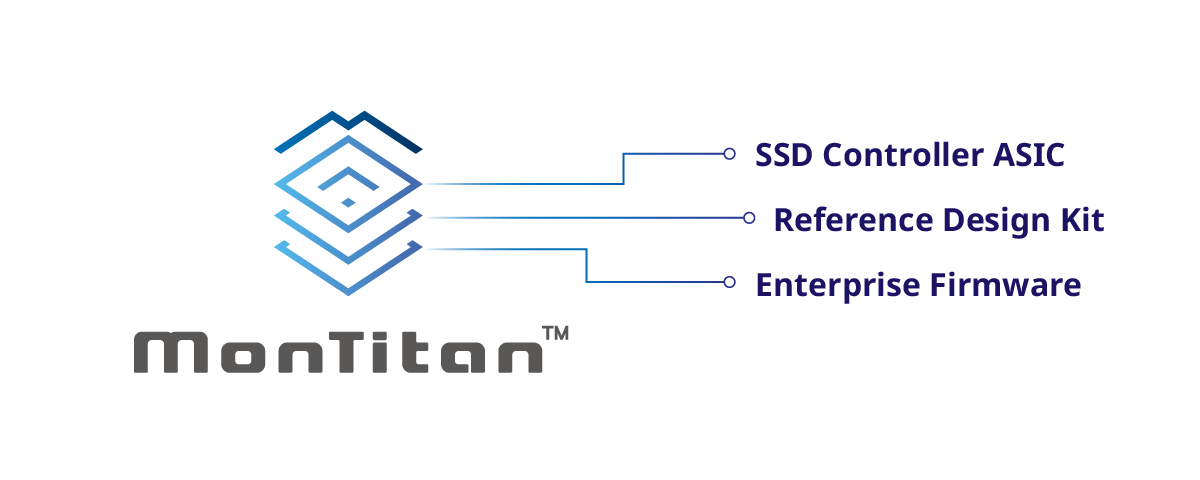
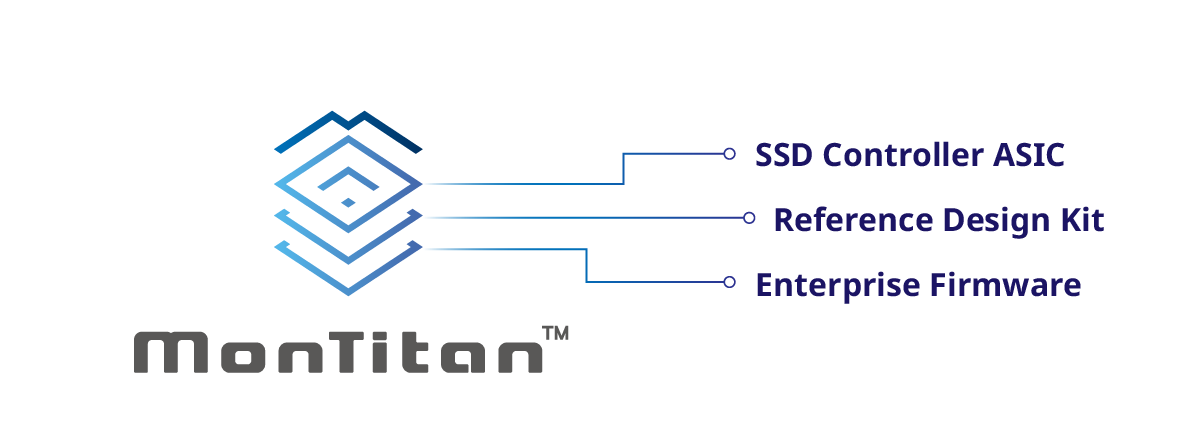
SSD-Enterprise:修改內容及圖片間距.

Changed region(s): [[0.0925, 0.2353, 0.925, 0.8529], [0.5242, 0.2941, 0.8942, 0.3824]]

diff --git a/_Enterprise.html b/_Enterprise.html
@@ -540,8 +540,8 @@
                 Silicon Motion's controllers provide end to end protection with world-class security, supporting AES-256
                 encryption and secure boot, while offering full compliance with the Trusted Computing Group's (TCG) Opal
                 specification.</p>
-              <p>Designed for next-generation data center and enterprise storage, Silicon Motion’s enterprise
-                controllers meet the highest standard s of performance, reliability, and security. With customizable
+              <p>Designed for next-generation data center and enterprise storage, Silicon Motion's enterprise
+                controllers meet the highest standard's of performance, reliability, and security. With customizable
                 turnkey firmware, these SSDs solutions are flexible enough to enable customers to develop
                 application-optimized, differentiated products.</p>
             </div>
@@ -559,20 +559,20 @@
             </div>
 
             <div class="mb-10">
-              <h4>SM8366 High Performance, 16 Channel; PCIe Gen5 x4 NVMe SSD Controller</h4>
-              <p>The SM8366 is MonTitan™ platform’s high performance, dual ported Enterprise and Data Center PCIe Gen5 x4 NVMe controller targets the most demaning AFA, Caching, HCI, CRM, ERM and traditional DAS and RAID applications.   Containing 16 channels and supporting up to 2400MT/s, the SM8366 provides industry leading blazingly fast Sequential (>14GB/s) and Random (>3.0M IOPS) SSD performance.  It contains a scalable Single / Dual Channel 40bit DDR4-3200 / DDR5-4800 DRAM interface and is provided in a 21mm x21mm FCBGA package enabling a single chip and FW stack to be used across all new EDSFF form factors.</p><br>
+              <h4>SM8366 - High Performance 16 Channel PCIe Gen5 x4 NVMe SSD Controller</h4>
+              <p>The SM8366 is MonTitan™ platform's high performance, dual ported Enterprise and Data Center PCIe Gen5 x4 NVMe controller targets the most demaning AFA, Caching, HCI, CRM, ERM and traditional DAS and RAID applications.   Containing 16 channels and supporting up to 2400MT/s, the SM8366 provides industry leading blazingly fast Sequential (>14GB/s) and Random (>3.0M IOPS) SSD performance.  It contains a scalable Single / Dual Channel 40bit DDR4-3200 / DDR5-4800 DRAM interface and is provided in a 21mm x21mm FCBGA package enabling a single chip and FW stack to be used across all new EDSFF form factors.</p><br>
               <figure>
                 <img src="images/products/diagram-SSD-Enterprise-3.png" alt="">
               </figure>
             </div>
 
             <div class="mb-10">
-              <h4>SM8266 High Performance, 16 Channel; PCIe Gen4 x4 NVMe SSD Controller</h4>
+              <h4>SM8266 - High Performance 16 Channel PCIe Gen4 x4 NVMe SSD Controller</h4>
               <p>The SM8266 is a high performance PCIe NVMe Gen4 x4 SSD 16 Channel controller targeting data center applications including durable data storage, JBOF and Cloud applications.   Differentiation is provided in Enterprise SSD solutions focused on Performance, Application Acceleration, Reliability and SKU Flexibility. With a complete development platform including a turnkey stack and reference design kit, the SM8266 accelerates development time-to-market for Data Center and Enterprise storage SSDs.   The SM8266 maximizes the bandwidth of the PCIe Gen4 x4 Host interface with > 6.5GB/s sequential read and 900K sustained Random Read IOPs.  In addition, the SM8266 provides physical and logical isolation with purpose-built hardware and firmware providing consistent, low latency QOS domains.</p>
             </div>
 
             <div class="mb-10">
-              <h4>SM2271; Providing High Capacity, High Performance SATA III</h4>
+              <h4>SM2271 - Providing High Capacity, High Performance SATA III SSD Controller</h4>
               <p>The SM2271 is a high-performance, 8-channel enterprise SATA controller enabling up to 16TB SSDs with the latest 3D TLC and QLC Flash technology. It fully maximizes the SATA interface supporting 540 MB/s Sequential Reads and 520 MB/s Sequential Writes. Accelerating time to market for lower cost SSDs, the solution includes both ASIC and turnkey firmware.</p>
               <p>The SM2271 offers an ideal replacement for lower-performance HDDs while providing more predictable latency than client SSDs. Enterprise SSDs based on a Silicon Motion SM2271 controller combine enterprise-level endurance, security, and performance for read-intensive and mixed workloads, while enabling users to retain existing datacenter infrastructure for the lowest possible total cost of ownership.</p>
               <figure>
@@ -589,7 +589,7 @@
             </div>
 
             <div class="mb-10 text-center">
-              <h4>MonTitan PCIe Gen5 SSD Solution Platform</h4>
+              <h4>MonTitan™ PCIe Gen5 SSD Solution Platform</h4>
               <iframe align="center"
                 allow="accelerometer; autoplay; clipboard-write; encrypted-media; gyroscope; picture-in-picture"
                 allowfullscreen="" frameborder="0" height="385" src="https://www.youtube.com/embed/jeog6CihPMM"
@@ -659,8 +659,6 @@
           <div class="editor">
 
             <h3>Technologies</h3>
-
-            <h5>Key Technologies</h5>
             <figure>
               <a href="#pro-3"><img src="images/products/diagram-SSD-Enterprise-2.png" alt=""></a>
             </figure>
@@ -775,6 +773,43 @@
                 </tr>
               </thead>
               <tbody>
+                <tr>
+                  <td data-th="Download">
+                    <button class="idownload" href="#popup_3Xc" data-effect="mfp-zoom-in">
+                      <img src="https://www.siliconmotion.com/images/download.svg" alt="">
+                    </button>
+
+                    <div id="popup_3Xc" class="popup-content mfp-with-anim mfp-hide">
+                      <table class="rwd-table dw-table mdw-table" data-aos="fade-up">
+                        <thead>
+                          <tr>
+                            <th>Type</th>
+                            <th>Document</th>
+                          </tr>
+                        </thead>
+                        <tbody>
+                          <tr>
+                            <td>Product Brief</td>
+                            <td>
+
+                              <a class="idownload lockdownload" href="javascript:;"
+                                @click.stop.prevent='eval("this.openDownload(&#039;https://www.siliconmotion.com/download/3br/a/SM8366_PB_EN.pdf&#039;)")'>
+                                <span>SM8366</span>
+
+                              </a>
+                            </td>
+                          </tr>
+                        </tbody>
+                      </table>
+                    </div>
+                  </td>
+                  <td data-th="Product">SM8366</td>
+                  <td data-th="Host Interface / Protocol">PCIe Gen5 x4 NVMe 2.0</td>
+                  <td data-th="Flash Interface">16-CH</td>
+                  <td data-th="ECC Support">Configurable LDPC ECC</td>
+                  <td data-th="DRAM">Yes</td>
+                  <td data-th="Package">FCBGA961 (21 x 21mm)</td>
+                </tr>
                 <tr>
                   <td data-th="Download">
                     <button class="idownload" href="#popup_3Xc" data-effect="mfp-zoom-in">
